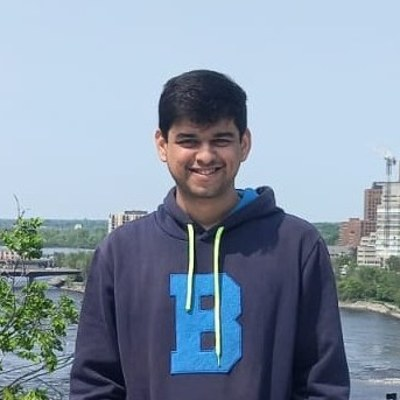
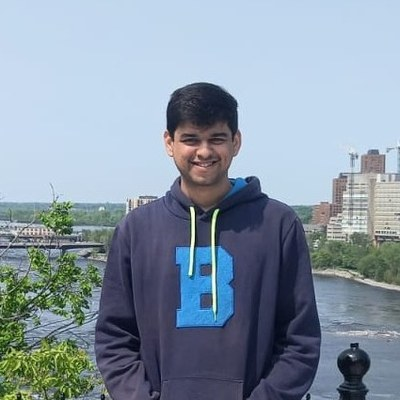
Beige theme and re-cropped headshot

diff --git a/style.css b/style.css
@@ -1,50 +1,18 @@
 :root {
-  --bg: #fbfbf9;
-  --surface: #ffffff;
-  --text: #1d1f23;
-  --muted: #5d636d;
-  --line: #e4e4df;
-  --accent: #1f5fa8;
-  --accent-hover: #12457f;
-  --me: #111318;
-  --tag-bg: #eef3fa;
-  --tag-text: #1f5fa8;
+  color-scheme: light;
+  --bg: #f6f1e7;
+  --surface: #fcf9f2;
+  --text: #2a251f;
+  --muted: #6e665a;
+  --line: #e3dac9;
+  --accent: #2c5d7f;
+  --accent-hover: #1c4260;
+  --me: #1a1611;
+  --tag-bg: #e9e1d1;
+  --tag-text: #6a4a24;
   --thumb-bg: #ffffff;
-  --code-bg: #f3f3ef;
-  --star: #b4541a;
-}
-
-@media (prefers-color-scheme: dark) {
-  :root:not([data-theme="light"]) {
-    --bg: #131417;
-    --surface: #1a1c20;
-    --text: #e3e4e7;
-    --muted: #9aa0aa;
-    --line: #2b2e34;
-    --accent: #7fb0ec;
-    --accent-hover: #a9caf3;
-    --me: #ffffff;
-    --tag-bg: #1d2a3b;
-    --tag-text: #9cc2f0;
-    --thumb-bg: #f4f4f2;
-    --code-bg: #1e2025;
-    --star: #f0a46b;
-  }
-}
-:root[data-theme="dark"] {
-  --bg: #131417;
-  --surface: #1a1c20;
-  --text: #e3e4e7;
-  --muted: #9aa0aa;
-  --line: #2b2e34;
-  --accent: #7fb0ec;
-  --accent-hover: #a9caf3;
-  --me: #ffffff;
-  --tag-bg: #1d2a3b;
-  --tag-text: #9cc2f0;
-  --thumb-bg: #f4f4f2;
-  --code-bg: #1e2025;
-  --star: #f0a46b;
+  --code-bg: #efe8da;
+  --star: #a8501c;
 }
 
 *, *::before, *::after { box-sizing: border-box; }
